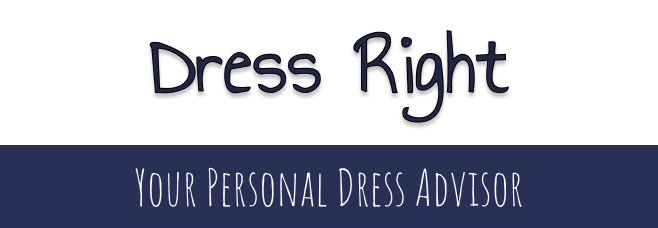
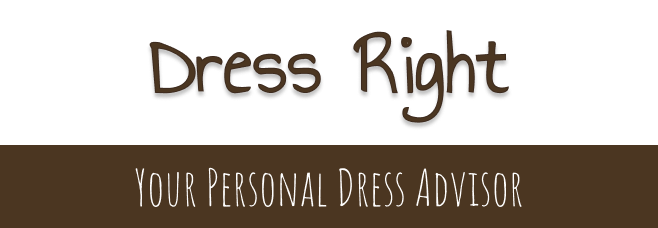
ui update

diff --git a/client/src/App.js b/client/src/App.js
@@ -166,15 +166,33 @@ function ImageUploader() {
   return (
     <div>
       {/* Header */}
-      <header style={{ display: "flex", justifyContent: "center", alignItems: "center", padding: "15px" }}>
-        <img src="/header.png" alt="Website Header" style={{ width: "30%", height: "auto" }} />
+      <header style={{ display: "flex", justifyContent: "center", alignItems: "center", padding: "15px", width: "100%" }}>
+        <img src="/header.png" alt="Website Header" style={{ width: "30%", height: "auto", left: "50%" }} />
+        <div style={cityStyle}>
+          <div style={{ marginBottom: "50px" }} /> {/* Add some space between the header and location */}
+          <h3 style={{ marginBottom: "10px", textAlign: "center" }}>🌍 Your Location:</h3>
+          {(<p style={{ marginTop: "0.01em", lineHeight: "1.2" }}>🏠City: {city}</p>)}
+          {(<p style={{ marginTop: "0.01em", lineHeight: "1.2" }}>🌡Temperature: {temperature}°C / {(temperature * 1.8 + 32).toFixed(2)}°F</p>)}
+          {(<p style={{ marginTop: "0.01em", lineHeight: "1.2" }}>🌦Weather: {weather}</p>)}
+        </div>
       </header>
+
+      {/* <header style={{ display: "flex", justifyContent: "center", alignItems: "center", padding: "15px", width: "100%" }}>
+        <img src="/header.png" alt="Website Header" style={{ width: "30%", height: "auto", position: "absolute", left: "50%", transform: "translateX(-50%)" }} />
+        
+        <div style={{ position: "absolute", right: "15px", textAlign: "right" }}>
+          <h3 style={{ marginBottom: "10px" }}>🌍 Your Location:</h3>
+          {city && (<p style={{ marginTop: "0.01em" }}>🏠City: {city}</p>)}
+          {temperature && (<p style={{ marginTop: "0.01em" }}>🌡Temperature: {temperature}°C</p>)}
+          {weather && (<p style={{ marginTop: "0.01em" }}>🌦Weather: {weather}</p>)}
+        </div>
+      </header> */}
 
   
       {/* Main Content */}
       <div style={{ display: "flex", height: "100vh", padding: "20px" }}>
         {/* Left Column - Location & Image Upload */}
-        <div style={{ fontFamily: "Poppins, sans-serif", flex: 3, textAlign: "center", paddingRight: "20px" }}>
+        <div style={{ fontFamily: "'Ewert', cursive", flex: 3, textAlign: "center", paddingRight: "20px", fontSize: "20px", color: "#4b3621" }}>
           {/* Display Location Component */}
           {/* <GetLocation /> */}
   
@@ -237,13 +255,14 @@ function ImageUploader() {
               />
   
               {/* Custom Select Image Button */}
-              <button onClick={() => fileInputRef.current.click()} style={buttonStyle(true)}>
-                Select Image
-              </button>
-  
-              <button onClick={handleUpload} disabled={!newImageSelected} style={uploadButtonStyle(newImageSelected)}>
-                Upload
-              </button>
+              <div style={{ display: "flex", justifyContent: "center", gap: "20px" }}>
+                <button onClick={() => fileInputRef.current.click()} style={selectButtonStyle}>
+                  Select
+                </button>
+                <button onClick={handleUpload} disabled={!newImageSelected} style={uploadButtonStyle(newImageSelected)}>
+                  Upload
+                </button>
+              </div>
 
                {/* Show Preview Only if Webcam is NOT Enabled */}
                {previewUrl && !useWebcam && (
@@ -257,12 +276,6 @@ function ImageUploader() {
   
         {/* Right Column - Clothing List */}
         <div style={clothingListContainerStyle}>
-          <div style={cityStyle}>
-            <h3 style={{ marginBottom: "10px", textAlign: "center" }}>🌍 Your Location:</h3>
-              {city && (<p style={{ marginTop: "0.01em"}}>🏠City: {city}</p>)}
-              {temperature && (<p style={{ marginTop: "0.01em"}}>🌡Temperature: {temperature}°C</p>)}
-              {weather && (<p style={{ marginTop: "0.01em"}}>🌦Weather: {weather}</p>)}
-          </div>
           <h3 style={{ marginBottom: "10px", textAlign: "center" }}>👕 What You're Wearing:</h3>
           <ul style={{ listStyleType: "none", padding: 0 }}>
             {clothingItems.map((item, index) => (
@@ -275,26 +288,26 @@ function ImageUploader() {
             ))}
           </ul>
           {/* Input box for manually entering clothing items */}
-          <div style={{ display: "flex", alignItems: "center", gap: "10px", marginTop: "10px" }}>
+          <div style={{ display: "flex", alignItems: "center", gap: "10px", marginTop: "10px", color: "#4b3621"}}>
             <input
               type="text"
               value={dressInput}
               onChange={(e) => setDressInput(e.target.value)}
               placeholder="Enter clothing item..."
-              style={{ padding: "1em", width: "80%", borderRadius: "0.2em" }}
+              style={{ padding: "1em", borderRadius: "25px", border: "2px solid #ccc", width: "70%", color: "#4b3621" }}
             />
-            <button onClick={handleAddItem} style={{ padding: "0.7em", borderRadius: "0.2em"}}>
+            <button onClick={handleAddItem} style={{ padding: "0.7em", borderRadius: "15px"}}>
               ➕
             </button>
           </div>
           
           <div style={{ display: "flex", alignItems: "center", gap: "2%", marginTop: "3%" }}>
-            <button onClick={handleResetItems} style={{ padding: "3%", width: "40%", borderRadius: "0.2%", marginTop: "1.5%", cursor: (clothingItems && clothingItems.length !== 0)  ? "pointer" : "not-allowed", }} disabled = {!clothingItems || clothingItems.length === 0}>
+            <button onClick={handleResetItems} style={{ padding: "3%", width: "40%", borderRadius: "25px", borderColor: "#4b3621", marginTop: "1.5%", cursor: (clothingItems && clothingItems.length !== 0)  ? "pointer" : "not-allowed", }} disabled = {!clothingItems || clothingItems.length === 0}>
             Reset 🔄
             </button>
 
             {/* Suggestions Button */}
-            <button onClick={handleSuggestions} style={{ padding: "3%", width: "40%", borderRadius: "0.2%", marginTop: "1.5%", marginLeft: "3%", cursor: suggestActive ? "pointer" : "not-allowed",}} disabled={!suggestActive}> 
+            <button onClick={handleSuggestions} style={{ padding: "3%", width: "40%", borderRadius: "25px", borderColor: "#4b3621", marginTop: "1.5%", marginLeft: "3%", cursor: suggestActive ? "pointer" : "not-allowed"}} disabled={!suggestActive}> 
               Suggest
             </button>
           </div>
@@ -327,14 +340,16 @@ const buttonContainerStyle = {
 };
 
 const buttonStyle = (isActive) => ({
-  padding: "15px 30px", // Make the buttons bigger
+  padding: "10px 10px", // Make the buttons bigger
   cursor: "pointer",
-  backgroundColor: isActive ? "#202543" : "#cccccc", // Blue if active, grey if inactive
+  backgroundColor: isActive ? "#7f5112" : "#cccccc", // Blue if active, grey if inactive
   color: "white",
   border: "none",
   borderRadius: "25px", // Rounded corners
   transition: "background-color 0.3s ease", // Smooth transition for background color change
   flex: 1, // This makes the buttons expand to fill the space evenly
+  fontFamily: "'Flavors', cursive", // Ewert font for buttons
+  fontSize: "25px",
 });
 
 const captureButtonStyle = (isCapturing) => ({
@@ -342,21 +357,37 @@ const captureButtonStyle = (isCapturing) => ({
   padding: "10px",
   cursor: isCapturing ? "not-allowed" : "pointer",
   opacity: isCapturing ? "0.5" : "1",
-  backgroundColor: "#4CAF50",
+  backgroundColor: "#7f5112",
   color: "white",
   border: "none",
-  borderRadius: "5px",
+  borderRadius: "25px",
+  fontFamily: "'Flavors', cursive",
+  fontSize: "16px",
 });
+
+const selectButtonStyle = {
+  marginTop: "10px",
+  cursor: "pointer",
+  padding: "10px",
+  backgroundColor: "#7f5112",
+  color: "white",
+  border: "none",
+  borderRadius: "25px",
+  fontFamily: "'Flavors', cursive",
+  fontSize: "16px",
+}
 
 const uploadButtonStyle = (enabled) => ({
   marginTop: "10px",
   padding: "10px",
   cursor: enabled ? "pointer" : "not-allowed",
   opacity: enabled ? "1" : "0.5",
-  backgroundColor: enabled ? "#4CAF50" : "#cccccc",
+  backgroundColor: enabled ? "#7f5112" : "#cccccc",
   color: "white",
   border: "none",
   borderRadius: "25px",
+  fontFamily: "'Flavors', cursive",
+  fontSize: "16px",
 });
 
 const webcamStyle = {
@@ -374,28 +405,37 @@ const imagePreviewStyle = {
 
 // Location and Weather Styling
 const cityStyle = {
-  marginTop: "1px", 
-  padding: "10px",
+  position: "absolute", 
+  right: "15px", 
+  textAlign: "center", 
+  marginTop: "35px", 
+  padding: "20px",
   background: "#e3f2fd",
   borderRadius: "5px",
-  textAlign: "center",
   fontFamily: "'Coming Soon', cursive", 
   background: "#fff",
   fontWeight: "bold",
+  color: "#4b3621",
   boxShadow: "1px 1px 5px rgba(0, 0, 0, 0.1)",
+  backgroundImage: "url('./white-board.png')", 
+  backgroundRepeat: "no-repeat",
+  backgroundSize: "350px 225px",
+  width: "300px",
 };
 
 // "What You're Wearing" Styling
 const clothingListContainerStyle = {
-  flex: 1,
   display: "flex",
   flexDirection: "column",
   padding: "20px",
   borderLeft: "2px solid #ccc",
   overflowY: "auto",
+  borderRadius: "5px",
   background: "#f9f9f9",
   position: "relative",
-  fontFamily: "Poppins, sans-serif",  // Poppins font for "What You're Wearing"
+  fontFamily: "Poppins, sans-serif",  // Poppins font for "What You're Wearing",
+  color: "#4b3621",
+  width: "300px",
 };
 
 
@@ -427,6 +467,8 @@ const lastItemContainerStyle = {
   borderRadius: "5px",
   textAlign: "center",
   background: "#fff",
+  fontFamily: "Coming Soon, cursive",
+  fontWeight: "bold",
   boxShadow: "1px 1px 5px rgba(0, 0, 0, 0.1)",
 };
 

diff --git a/client/public/index.html b/client/public/index.html
@@ -7,6 +7,7 @@
     <link href="https://fonts.googleapis.com/css2?family=Amatic+SC&display=swap" rel="stylesheet">
     <link href="https://fonts.googleapis.com/css2?family=Coming+Soon&display=swap" rel="stylesheet">
     <link href="https://fonts.googleapis.com/css2?family=Ewert&display=swap" rel="stylesheet">
+    <link href="https://fonts.googleapis.com/css2?family=Flavors&display=swap" rel="stylesheet">
     <meta name="viewport" content="width=device-width, initial-scale=1" />
     <meta name="theme-color" content="#000000" />
     <meta
